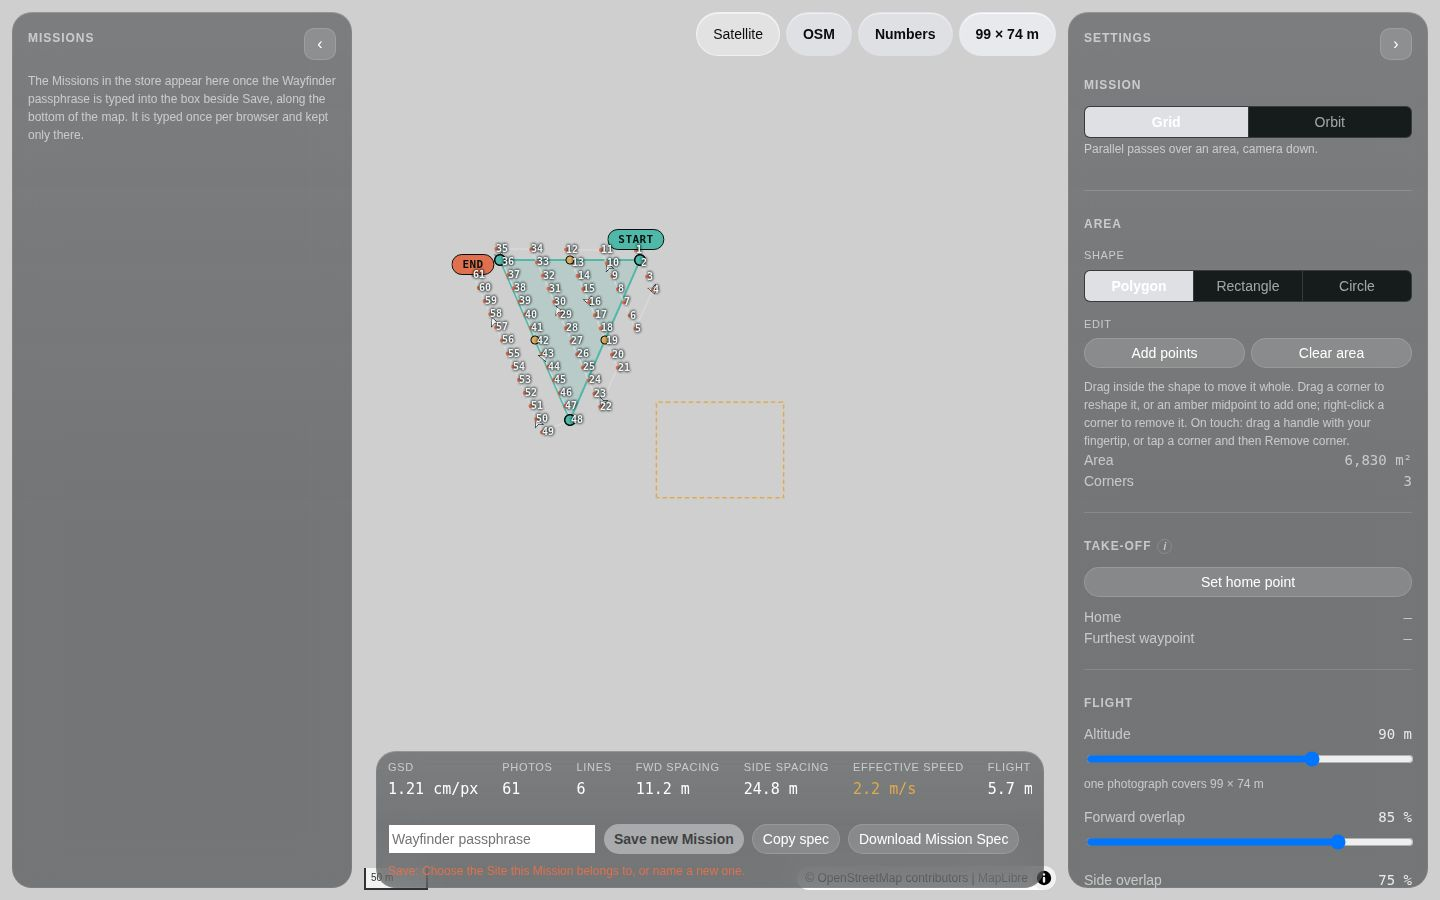
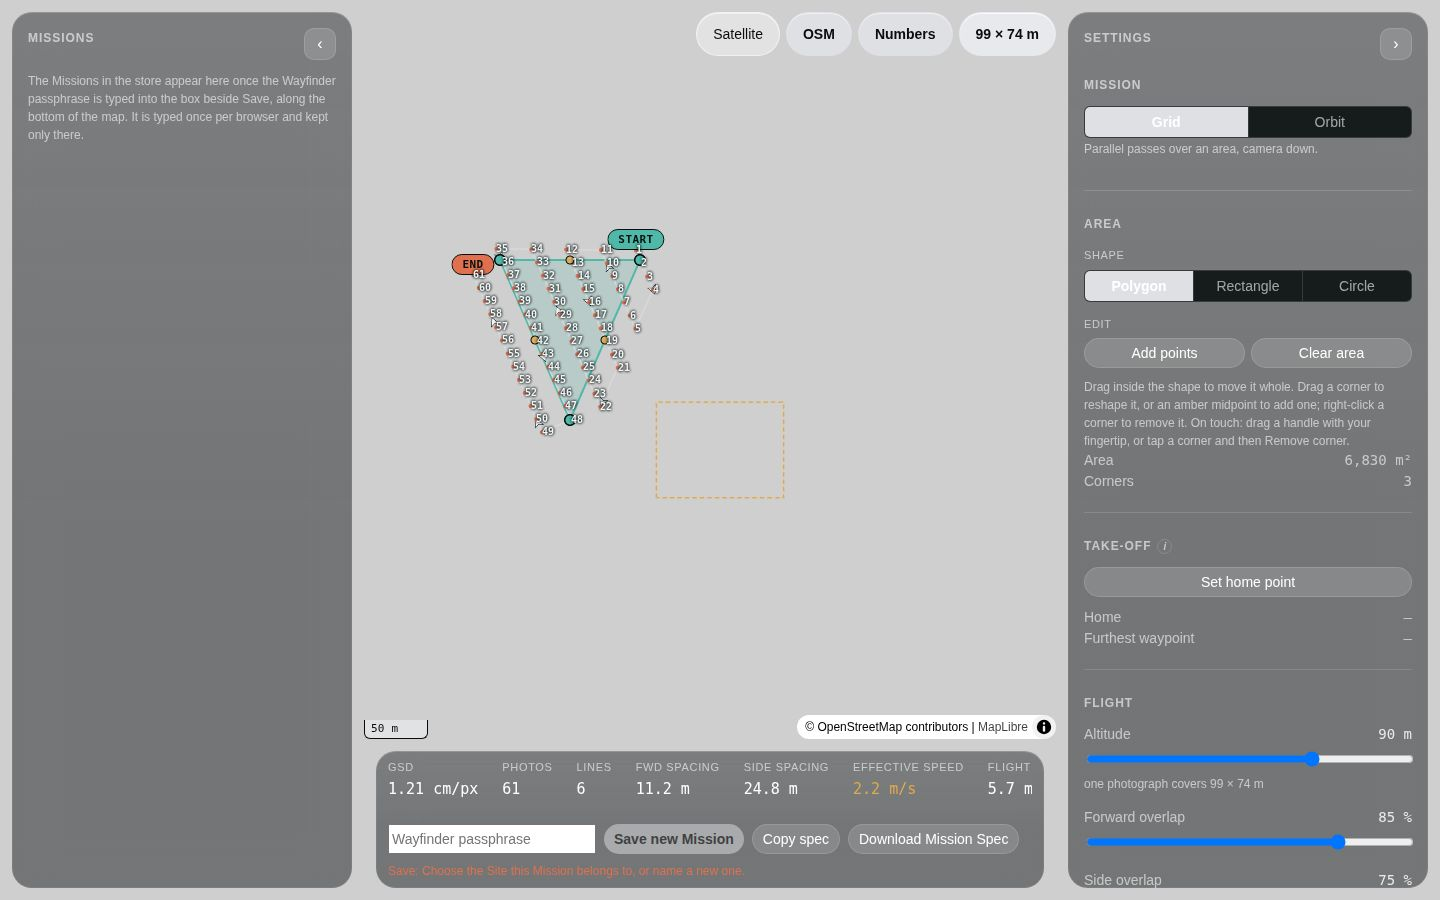
UI-7: fix review — 44px action buttons, clear the Summary bar, narrow-width overlap, scale bar type
Four fixes from review:

1. Finish area / Cancel / Remove corner were inheriting the global button's
   ~6px padding (~30-34px tall). They get the same 44px min-height as .pill.

2. The repositioned scale and attribution cleared the side panels but not
   the Summary bar, which floats along the same bottom band between them:
   "50 m" sat over its "Save: Choose the Site..." text. The Summary's
   height is content-driven and UI-6 is reshaping it, so a hard-coded
   offset would go stale; instead page.tsx now measures the Summary's real
   box with a ResizeObserver and exposes it as --summary-h on .page, the
   same pattern --missions-w/--settings-w already use, and MapPane reads
   it to clear the bar at >=1000px. Verified with a script that reads both
   elements' actual rects and asserts no intersection, at 1440x900 and
   1280x800, panels open and collapsed (the Summary's own measured height
   changes between those -- 137px to 83px at 1440 -- confirming the fix
   tracks the real box rather than a guess).

3. At 375px the drawing panel fully covered OSM and half of Numbers, and
   was hit-testable there, so OSM could not be tapped while drawing.
   MapPane now measures its own pill row's height (also a ResizeObserver,
   same reasoning: the row can wrap to two lines depending on the
   footprint label) and the drawing / remove-corner panel starts below it
   below 1000px, never above. Verified by tapping OSM through a live draw
[…]

diff --git a/web/components/MapPane.module.css b/web/components/MapPane.module.css
@@ -24,6 +24,35 @@
   margin-right: calc(var(--settings-w, 0px) + 24px);
 }
 
+/* At >=1000px the Summary bar also floats along the bottom, spanning the same
+   centre strip these controls sit above -- clearing the side panels is not
+   enough, since the Summary itself is between them. --summary-h is measured
+   from the Summary's real rendered box (plan/page.tsx), not guessed, because
+   its height is content-driven and changing under UI-6; the fallback is 0 so
+   nothing shifts before that measurement lands on first paint. */
+@media (min-width: 1000px) {
+  .wrap :global(.maplibregl-ctrl-bottom-left .maplibregl-ctrl),
+  .wrap :global(.maplibregl-ctrl-bottom-right .maplibregl-ctrl-attrib) {
+    margin-bottom: calc(var(--summary-h, 0px) + 24px);
+  }
+}
+
+/* Scale bar, restyled minimally to the new type and radius (spec §6, §7)
+   instead of MapLibre's default black-bordered white square. Kept opaque
+   with dark ink so it stays legible over any basemap, the same reasoning as
+   the pills; a border only on three sides keeps it reading as a ruler. */
+.wrap :global(.maplibregl-ctrl-scale) {
+  background: var(--panel-light-alt);
+  border: 1.5px solid var(--ink);
+  border-top: none;
+  border-radius: 0 0 6px 6px;
+  color: var(--ink);
+  font: 500 11px/1.4 var(--mono, monospace);
+  font-variant-numeric: tabular-nums;
+  letter-spacing: 0.02em;
+  padding: 1px 6px 2px;
+}
+
 /* Both float on the map itself, so they must stay clear of the Missions and
    Settings glass panels when those are open, not just of the viewport edge.
    --missions-w / --settings-w are set on .page (plan.module.css) and cascade
@@ -118,6 +147,19 @@
   gap: 6px;
 }
 
+/* Below 1000px there are no side panels for --missions-w to hold it clear of,
+   and the display pills claim the same top-left corner -- covering "OSM" and
+   half of "Numbers" while drawing, and hit-testing over them too, so they
+   were not reachable (screenshots, ui-7 review). --toggle-h is the pill row's
+   own measured height (MapPane.tsx), one or two lines depending on wrap, so
+   the panel starts under it at any width or label length instead of guessing
+   a fixed offset. */
+@media (max-width: 999px) {
+  .drawPanel {
+    top: calc(var(--toggle-h, 0px) + 20px);
+  }
+}
+
 .drawTitle {
   font: 500 12px/1.3 var(--sans);
   letter-spacing: 0.06em;
@@ -149,6 +191,16 @@
   display: flex;
   gap: 8px;
   margin-top: 4px;
+}
+
+/* Finish area / Cancel / Remove corner otherwise inherit the global button's
+   ~6px padding, well under the 44px touch target (spec §11), same as .pill. */
+.drawActions button {
+  min-height: 44px;
+  padding: 0 16px;
+  display: inline-flex;
+  align-items: center;
+  justify-content: center;
 }
 
 /* Take-off, not the orbit subject: those are different things and the subject

diff --git a/web/app/plan/page.tsx b/web/app/plan/page.tsx
@@ -112,6 +112,8 @@ export default function PlanPage() {
   const collapseSettings = useRef<HTMLButtonElement>(null);
   const expandMissions = useRef<HTMLButtonElement>(null);
   const expandSettings = useRef<HTMLButtonElement>(null);
+  const pageRef = useRef<HTMLDivElement>(null);
+  const summaryRef = useRef<HTMLDivElement>(null);
   // The control a fold is about to create, focused once it is on screen. Null
   // on first mount: the page must not steal focus on load.
   const foldFocus = useRef<FoldFocus | null>(null);
@@ -144,6 +146,21 @@ export default function PlanPage() {
     onChange();
     mq.addEventListener("change", onChange);
     return () => mq.removeEventListener("change", onChange);
+  }, []);
+
+  // The Summary bar's real height, as a variable the map's own bottom
+  // controls (UI-7) read to clear it -- it shares the bottom band with them
+  // on a wide screen, and its height is content-driven (UI-6 is reshaping
+  // that content), so a measured value is the only one that stays true.
+  useEffect(() => {
+    const page = pageRef.current;
+    const summary = summaryRef.current;
+    if (!page || !summary) return;
+    const ro = new ResizeObserver(([entry]) => {
+      page.style.setProperty("--summary-h", `${entry.target.getBoundingClientRect().height}px`);
+    });
+    ro.observe(summary);
+    return () => ro.disconnect();
   }, []);
 
   // Folding swaps a control for its replacement; focus follows so a keyboard
@@ -222,6 +239,7 @@ export default function PlanPage() {
 
   return (
     <div
+      ref={pageRef}
       className={styles.page}
       data-view={view}
       data-network={noNetwork ? "offline" : "online"}
@@ -313,7 +331,7 @@ export default function PlanPage() {
       <p className={styles.srOnly} role="status">
         {noNetwork ? "The map needs a connection." : ""}
       </p>
-      <div className={`glass-smoke ${styles.summary}`}>
+      <div ref={summaryRef} className={`glass-smoke ${styles.summary}`}>
         <SummaryBar
           spec={spec}
           preview={preview_}

diff --git a/web/components/MapPane.tsx b/web/components/MapPane.tsx
@@ -287,6 +287,8 @@ export default function MapPane({
   onBasemapError,
   onBasemapLoaded,
 }: MapPaneProps) {
+  const wrapRef = useRef<HTMLDivElement>(null);
+  const toggleRef = useRef<HTMLDivElement>(null);
   const containerRef = useRef<HTMLDivElement>(null);
   const mapRef = useRef<MaplibreMap | null>(null);
   const homeMarkerRef = useRef<Marker | null>(null);
@@ -312,6 +314,22 @@ export default function MapPane({
   // True while a shape is being rubber-banded, so the data push below leaves the
   // live preview alone instead of overwriting it from the committed spec.
   const drawingRef = useRef(false);
+
+  // The display-pill row's real height, read by the drawing / remove-corner
+  // panel below 1000px wide (MapPane.module.css) so it starts under the pills
+  // instead of over them -- the row can be one or two lines depending on how
+  // the footprint label wraps, so a measured value is the only one that stays
+  // true at every width and every label length.
+  useEffect(() => {
+    const wrap = wrapRef.current;
+    const toggle = toggleRef.current;
+    if (!wrap || !toggle) return;
+    const ro = new ResizeObserver(() => {
+      wrap.style.setProperty("--toggle-h", `${toggle.getBoundingClientRect().height}px`);
+    });
+    ro.observe(toggle);
+    return () => ro.disconnect();
+  }, []);
 
   // Leaving a draw mode half-finished must not leave the shape behind, so every
   // mode change discards it. An effect on `mode` would cost a second render.
@@ -951,9 +969,9 @@ export default function MapPane({
     : "";
 
   return (
-    <div className={styles.wrap}>
+    <div ref={wrapRef} className={styles.wrap}>
       <div ref={containerRef} className={styles.map} />
-      <div className={styles.basemapToggle} role="group" aria-label="Map display">
+      <div ref={toggleRef} className={styles.basemapToggle} role="group" aria-label="Map display">
         <button
           className={`${styles.pill} ${basemap === "esri" ? "active" : ""}`}
           aria-pressed={basemap === "esri"}
